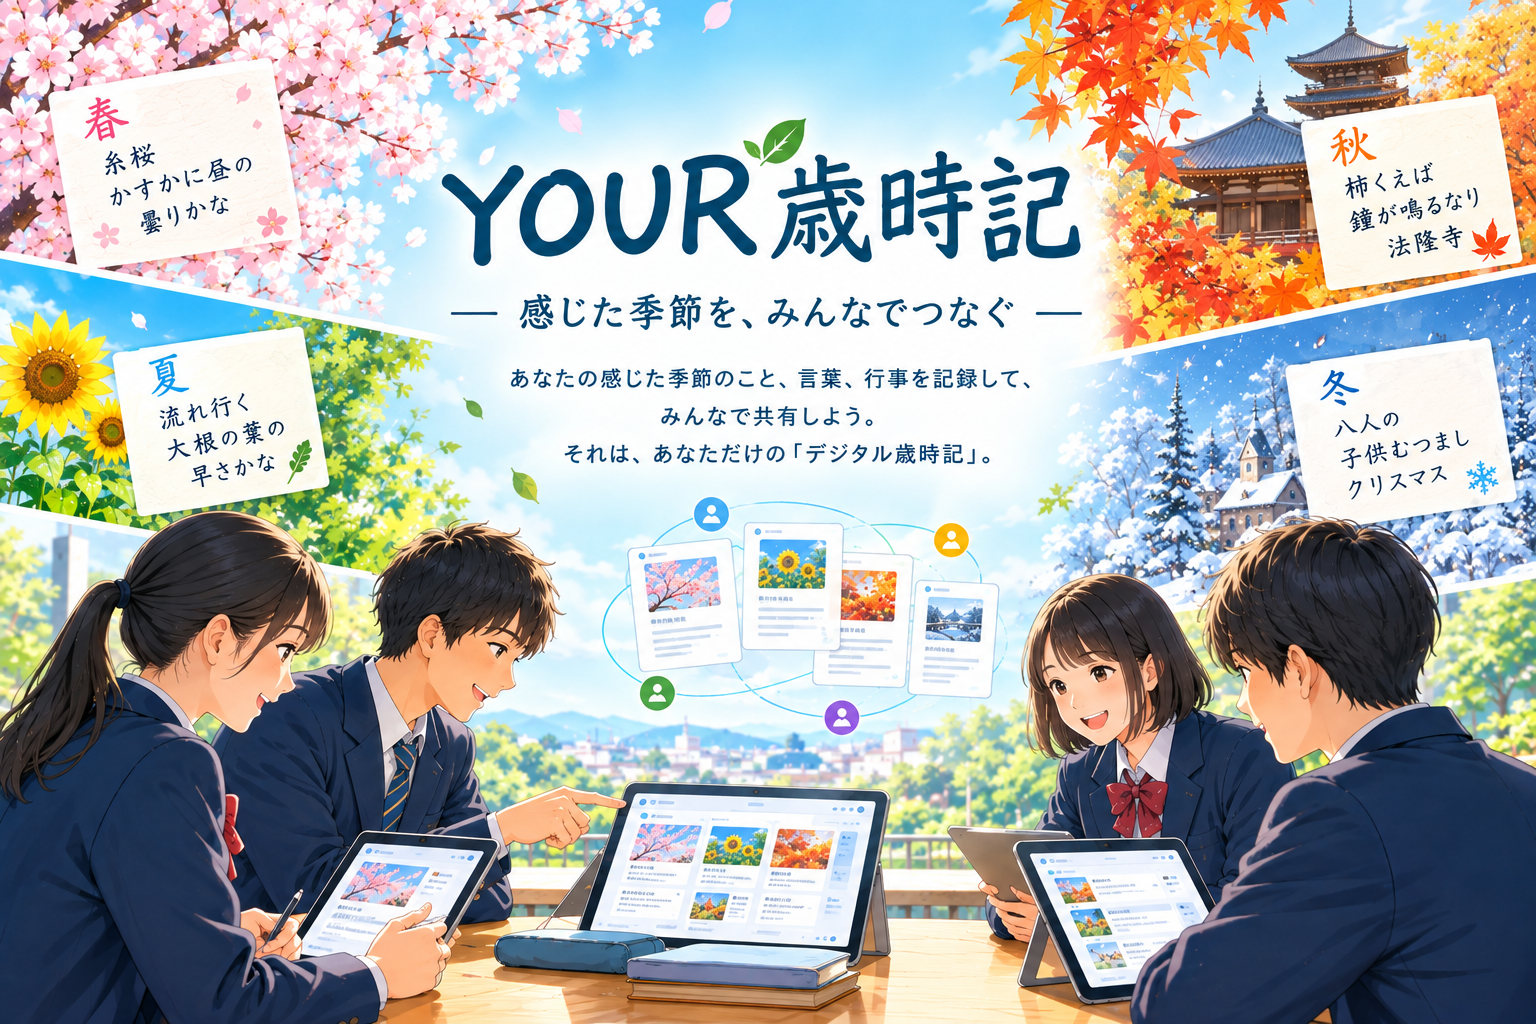
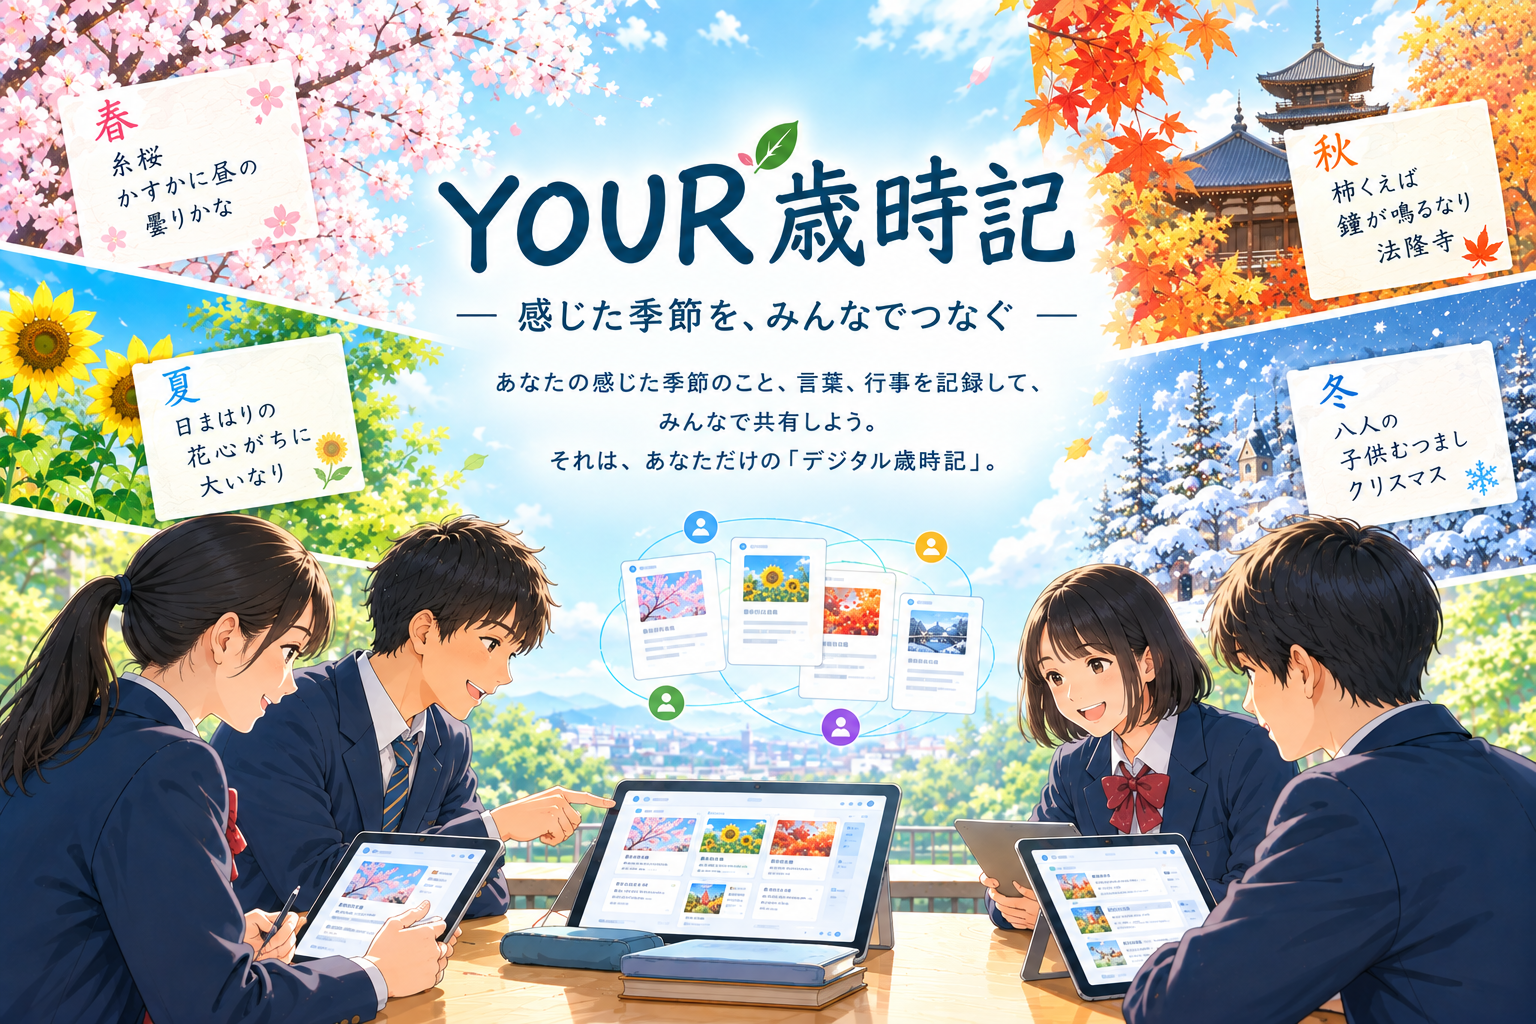
利用規約とPPの作成

diff --git a/app/assets/stylesheets/right_sidebar.css b/app/assets/stylesheets/right_sidebar.css
@@ -31,7 +31,7 @@
   width: 100%;
 }
 
-/* 2. ログイン・ログアウトボタン共通のスタイル */
+/* 2. ボタン共通のスタイル */
 .btn-login, .btn-logout, .btn-user, .btn-kigo {
   display: inline-block;
   text-align: center;
@@ -45,14 +45,14 @@
   box-sizing: border-box;
 }
 
-/* 3. ログインボタンのデザイン（枠線つき） */
+/* 3. ボタンのデザイン（枠線つき） */
 .btn-login, .btn-logout, .btn-user, .btn-kigo {
   color: #333333;          /* 文字色をタイトルの色と統一 */
   border: 1px solid #cccccc; /* 主張しすぎない薄めの枠線 */
   background-color: transparent;
 }
 
-/* ログインボタンをホバーしたとき */
+/* ボタンをホバーしたとき */
 .btn-login:hover, .btn-logout:hover, .btn-user:hover, .btn-kigo:hover {
   background-color: #f5f5f5; /* 背景をうっすらグレーにする */
   border-color: #333333;     /* 枠線を濃くする */
@@ -65,4 +65,24 @@
   color: #666666;
   margin-bottom: 12px;
   text-align: center;
+}
+
+/* リンクのまとまり：縦並び＆最下部へ */
+.right_sidebar-static-links {
+  display: flex;
+  flex-direction: column;
+  gap: 8px;
+  margin-top: auto;   /* 残りの余白を上に取って一番下へ */
+  padding-left: 20px;
+}
+
+/* 各リンク */
+.right_sidebar-static-links .static-link {
+  color: #333;
+  transition: color 0.2s ease;
+}
+
+/* ホバー */
+.right_sidebar-static-links .static-link:hover {
+  color: #1e90ff;
 }

diff --git a/app/assets/stylesheets/static_pages.css b/app/assets/stylesheets/static_pages.css
@@ -1,0 +1,45 @@
+.terms-content, .pp-content {
+  max-width: 56rem;
+  margin-left: auto;
+  margin-right: auto;
+  margin-top: 1.5rem;
+  margin-bottom: 1.5rem;
+  padding-left: 1.5rem;
+  padding-right: 1.5rem;
+
+  h1 {
+    margin-bottom: 1.5rem;
+    text-align: center;
+    font-size: 1.875rem;
+    font-weight: 700;
+    letter-spacing: -0.025em;
+    color: #111827;
+  }
+
+  h2 {
+    margin-top: 1.5rem;
+    margin-bottom: 1.5rem;
+    text-align: center;
+    font-size: 1.5rem;
+    font-weight: 700;
+    letter-spacing: -0.025em;
+    color: #111827;
+  }
+
+  p {
+    text-indent: 1rem;
+  }
+
+  ul {
+    text-indent: 1rem;
+    list-style-type: disc;
+    list-style-position: inside;
+    margin-top: 8px;
+  }
+
+  .legal-date {
+    text-align: right;
+    text-indent: 0;
+    margin-top: 1.5rem;
+  }
+}

diff --git a/app/assets/stylesheets/application.tailwind.css b/app/assets/stylesheets/application.tailwind.css
@@ -7,3 +7,4 @@
 @import "./show.css";
 @import "./users.css";
 @import "./current_user_show.css";
+@import "./static_pages.css";

diff --git a/app/models/kigo.rb b/app/models/kigo.rb
@@ -6,9 +6,9 @@ class Kigo < ApplicationRecord
   validates :example, presence: true
 
   SEARCHABLE_COLUMNS = %w[headword season].freeze
-  scope :search_by_term, ->(term, column = "headword") {
+  scope :search_by_term, ->(term, column = "season") {
     # ホワイトリストでカラム名を検証
-    safe_column = SEARCHABLE_COLUMNS.include?(column.to_s) ? column.to_s : "headword"
+    safe_column = SEARCHABLE_COLUMNS.include?(column.to_s) ? column.to_s : "season"
     where(arel_table[safe_column].matches("%#{sanitize_sql_like(term)}%", "\\"))
   }
 end

diff --git a/app/controllers/kigos_controller.rb b/app/controllers/kigos_controller.rb
@@ -3,7 +3,7 @@ class KigosController < ApplicationController
   before_action :set_kigo, only: %i[ destroy edit update ]
 
   def index
-    @search_type = params[:search_type].presence_in(Kigo::SEARCHABLE_COLUMNS) || "headword"
+    @search_type = params[:search_type].presence_in(Kigo::SEARCHABLE_COLUMNS) || "season"
 
     @words = if params[:search].present? # サイドバーの一覧表示用
       Kigo.search_by_term(params[:search], @search_type)

diff --git a/test/controllers/static_pages_controller_test.rb b/test/controllers/static_pages_controller_test.rb
@@ -1,0 +1,13 @@
+require "test_helper"
+
+class StaticPagesControllerTest < ActionDispatch::IntegrationTest
+  test "should get terms" do
+    get static_pages_terms_url
+    assert_response :success
+  end
+
+  test "should get privacy_policy" do
+    get static_pages_privacy_policy_url
+    assert_response :success
+  end
+end

diff --git a/config/routes.rb b/config/routes.rb
@@ -1,4 +1,6 @@
 Rails.application.routes.draw do
+  get 'terms', to: 'static_pages#terms'
+  get 'privacy_policy', to: 'static_pages#privacy_policy'
   # Define your application routes per the DSL in https://guides.rubyonrails.org/routing.html
   resources :kigos
   resources :users, only: %i[new create show destroy]

diff --git a/app/controllers/static_pages_controller.rb b/app/controllers/static_pages_controller.rb
@@ -1,0 +1,5 @@
+class StaticPagesController < ApplicationController
+  def terms; end
+
+  def privacy_policy; end
+end

diff --git a/app/helpers/static_pages_helper.rb b/app/helpers/static_pages_helper.rb
@@ -1,0 +1,2 @@
+module StaticPagesHelper
+end
